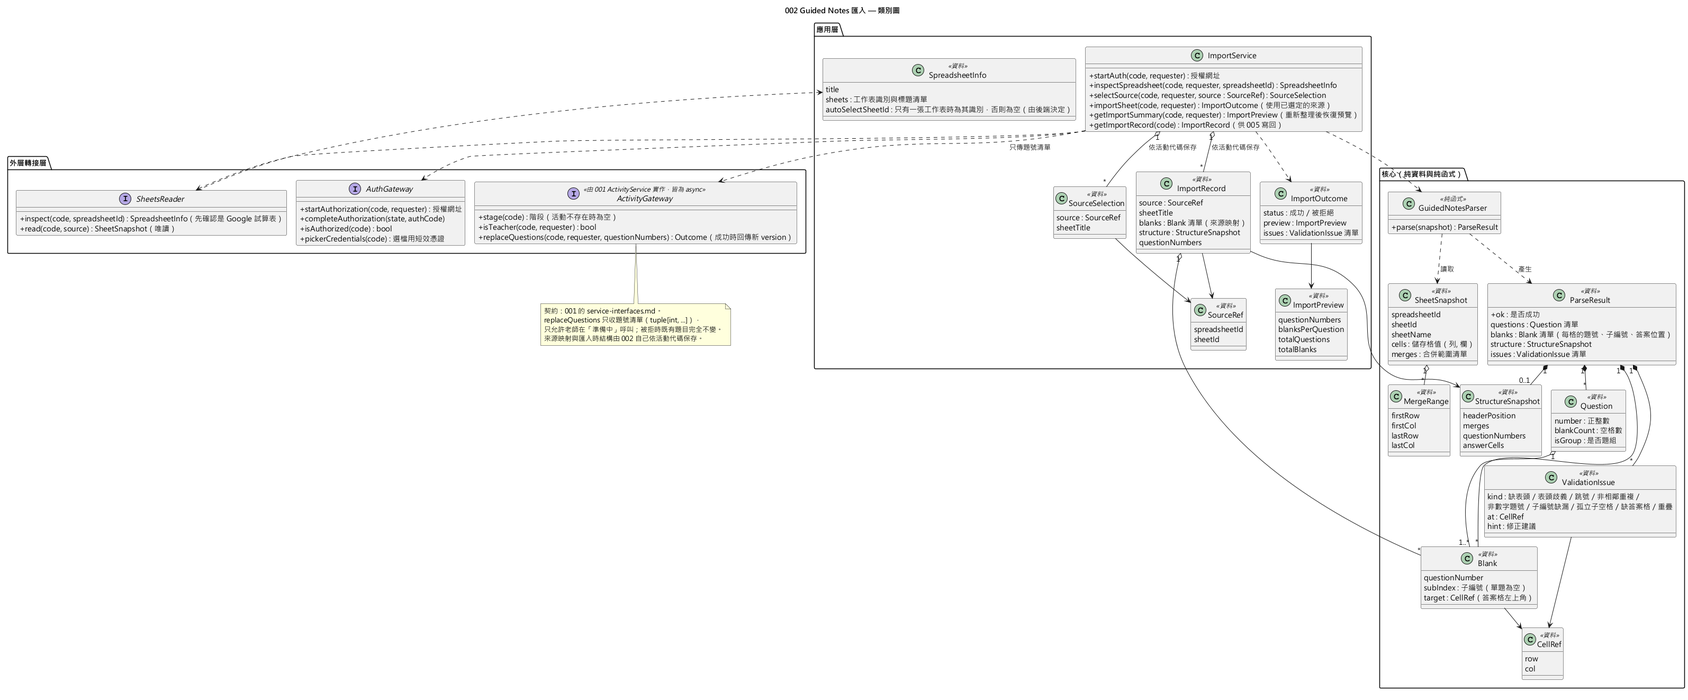
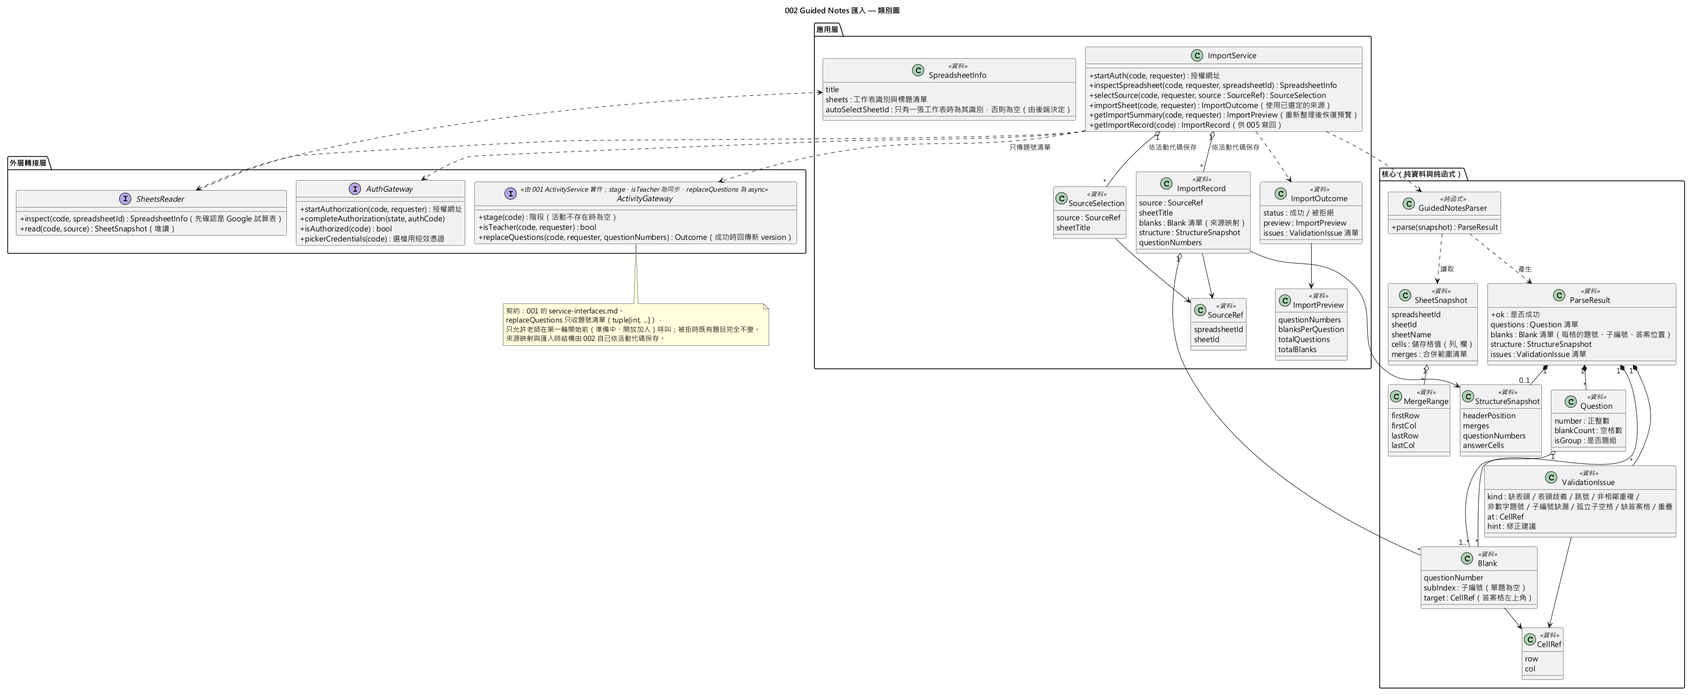
docs: 002 對齊 001 開放加入階段與已合併的 ActivityGateway（stage／is_teacher 同步）(#6)

Changed region(s): [[0.2794, 0.4342, 0.4657, 0.4962], [0.3104, 0.2481, 0.4346, 0.2791]]

diff --git a/specs/002-guided-notes-import/tasks.md b/specs/002-guided-notes-import/tasks.md
@@ -46,7 +46,7 @@ description: "002-guided-notes-import 任務清單"
 
 **Purpose**: 確認骨架就緒，追加相依與目錄
 
-- [ ] T001 **前置關卡（等相依完成再開始）**：確認以下兩項都已完成，在 `main` 或 002 所接續的 001 分支上都可以，**未完成就停止並回報，不開工、不自行建立**：(1) 001 的骨架 PR（目前為 #14）已合併，且 002 分支已從該基底接續；(2) 001 的 `ActivityService` 已實作 002 契約測試與真實驗證會用到的功能：建立活動與老師 token（001 US1）、`replace_questions`（001 tasks T043 對應的實作）、開輪與取消（001 US3、US4，US6 測試需要）。骨架檢查： `pyproject.toml`（含 Ruff、mypy 設定）、`src/lecture_quiz/{core,app,adapters}/`、`src/lecture_quiz/main.py` 的 `create_app`、`tests/conftest.py`、`tests/architecture/test_core_is_pure.py` 都存在。任一項缺少就**停止並回報**，不自行建立（骨架凍結）。
+- [ ] T001 **前置關卡（等相依完成再開始）**：確認以下兩項都已完成，在 `main` 或 002 所接續的 001 分支上都可以，**未完成就停止並回報，不開工、不自行建立**：(1) 001 的骨架 PR（#14，2026-11-23 已合併）已合併，且 002 分支已從該基底接續；(2) 001 的 `ActivityService` 已實作 002 契約測試與真實驗證會用到的功能：建立活動與老師 token（001 US1）、`replace_questions`（001 tasks T043 對應的實作）、開輪與取消（001 US3、US4，US6 測試需要）。骨架檢查： `pyproject.toml`（含 Ruff、mypy 設定）、`src/lecture_quiz/{core,app,adapters}/`、`src/lecture_quiz/main.py` 的 `create_app`、`tests/conftest.py`、`tests/architecture/test_core_is_pure.py` 都存在。任一項缺少就**停止並回報**，不自行建立（骨架凍結）。
 - [ ] T002 [P] 確認 `diagrams/002-guided-notes-import-{component,class,sequence}.puml` 與對應 PNG 都存在，且 PNG 不舊於 `.puml`；不符時先執行 `java -jar plantuml.jar "./diagrams/002-*.puml"`（原則 II）。
 - [ ] T003 在 `pyproject.toml` 相依列表**最後**追加 `google-api-python-client`、`google-auth`、`google-auth-oauthlib`（核心相依，不放選用 extra）；版本以 `pip index versions <套件>` 查證後釘選並記錄在 PR 描述，不憑記憶。註冊 pytest marker `real_google`，並讓預設 `addopts` 排除它：`addopts` 合併為單一表達式 `-m "not perf and not real_google"`（001 已有 `-m 'not perf'`；命令列再給 `-m` 會**覆蓋**它，所以指令一律用 `not real_google and not perf`）。
 - [ ] T004 [P] 建立套件與測試目錄，各放空的 `__init__.py`：`<core>/`、`<app>/`、`src/lecture_quiz/adapters/google/`、`tests/unit/core/guided_notes_import/`、`tests/unit/app/guided_notes_import/`、`tests/unit/adapters/google/`、`tests/contract/guided_notes_import/`、`tests/fixtures/`、`tests/real_google/`。
@@ -78,10 +78,10 @@ description: "002-guided-notes-import 任務清單"
 ### 應用層
 
 - [ ] T010 [P] 在 `<app>/models.py` 建立：`SourceRef(spreadsheet_id, sheet_id)`、`SheetInfo(sheet_id, title)`、`SpreadsheetInfo(spreadsheet_id, title, sheets, auto_select_sheet_id)`、`SourceSelection(source, sheet_title)`、`ImportRecord(source, sheet_title, blanks, structure, question_numbers)`、`ImportPreview(question_numbers, blanks_per_question, total_questions, total_blanks)`、`ImportOutcome(ok, preview, issues, rejection)`、`ImportRejection` 列舉（`NOT_AUTHORIZED`、`AUTH_DENIED`、`AUTH_EXPIRED`、`PERMISSION_DENIED`、`NOT_A_SPREADSHEET`、`SHEET_NOT_FOUND`、`SOURCE_NOT_SELECTED`、`READ_FAILED`、`VALIDATION_FAILED`、`ACTIVITY_NOT_FOUND`、`NOT_TEACHER`、`ROUND_STARTED`、`ACTIVITY_CANCELLED`、`STAGE_NOT_PREPARING`、`GATEWAY_REJECTED`、`GOOGLE_NOT_CONFIGURED`、`INVALID_REQUEST`）、與 001 `Outcome` 同形的 `Result[T]`（`ok`、`value`、`rejection`）。服務不拋業務錯誤。`ACTIVITY_GONE`（410）不是獨立列舉值：它是 `ACTIVITY_NOT_FOUND` 在 HTTP 層、請求帶 token 時依 001 慣例的對外代碼與狀態碼，由 `<web>` 的錯誤轉換決定（見 [contracts/http-api.md](contracts/http-api.md)）。
-- [ ] T011 [P] 在 `<app>/ports.py` 以 `typing.Protocol` 定義 `AuthGateway`（`start_authorization`、`complete_authorization`、`is_authorized`、`picker_credentials`）與 `SheetsReader`（`inspect`、`read`），簽章照 [contracts/service-interfaces.md](contracts/service-interfaces.md)；所有跨出應用層的 I/O 為 `async`。`Clock` 與 `ActivityGateway`（`stage`、`is_teacher`、`replace_questions`）沿用 001，不重複定義。
+- [ ] T011 [P] 在 `<app>/ports.py` 以 `typing.Protocol` 定義 `AuthGateway`（`start_authorization`、`complete_authorization`、`is_authorized`、`picker_credentials`）與 `SheetsReader`（`inspect`、`read`），簽章照 [contracts/service-interfaces.md](contracts/service-interfaces.md)；所有跨出應用層的 I/O 為 `async`（`ActivityGateway` 除外：依已合併的 001 `src/lecture_quiz/app/activity/ports.py`，`stage`、`is_teacher` 是**同步**方法，只有 `replace_questions` 是 `async`；002 的 Fake 與呼叫端照此，不得 `await` 同步方法）。`Clock` 與 `ActivityGateway`（`stage`、`is_teacher`、`replace_questions`）沿用 001，不重複定義。
 - [ ] T012 [P] 在 `<app>/store.py` 建立 `ImportStore`：依活動代碼為 key 的 `sessions`、`selections`、`records`、`locks`（每個活動一把 `asyncio.Lock`，與 001 活動鎖分開）；只在記憶體，不持久化（原則 VII）。
 - [ ] T013 在 `<app>/messages.py` 建立固定中文訊息對照表（每個 `ImportRejection` 一則，`IssueKind` 的修正建議於 T053 補齊），儲存格引用截斷在 40 字元；在 `tests/unit/app/guided_notes_import/test_messages.py` 測試每個代碼都有訊息，且訊息不含 token、授權碼、`state`、client secret、檔案路徑、堆疊字樣（FR-022、SC-005；`Edge: 輸入驗證失敗`）。（依賴 T010）
-- [ ] T014 [P] 建立 `tests/unit/app/guided_notes_import/fakes.py`：`FakeAuthGateway`、`FakeSheetsReader`（可注入快照、授權狀態、各種拒絕）、`FakeActivityGateway`（行為依 001 契約：`stage`、`is_teacher`、`replace_questions` 只允許老師在準備中、成功回傳新 `version`、被拒時題目不變；可注入「解析後、寫入前階段改變」）。檔頭標明為測試替身。
+- [ ] T014 [P] 建立 `tests/unit/app/guided_notes_import/fakes.py`：`FakeAuthGateway`、`FakeSheetsReader`（可注入快照、授權狀態、各種拒絕）、`FakeActivityGateway`（行為依 001 契約：`stage`、`is_teacher`、`replace_questions` 只允許老師在 `PREPARING` 與 `JOINING`（第一輪開始前）、成功回傳新 `version`、被拒時題目不變；可注入「解析後、寫入前階段改變」）。檔頭標明為測試替身。
 - [ ] T015 [P] 在 `<google>/config.py` 讀取五個環境變數，**空字串視為未設定**，缺任何一項時匯入相關操作回 `GOOGLE_NOT_CONFIGURED`，不退回離線路徑、不假裝成功；`config.py` 只讀 `os.environ`，`.env` 由啟動指令載入（`uvicorn ... --env-file .env`，`uvicorn[standard]` 內含 python-dotenv；實作時以已安裝版本的 `uvicorn --help` 確認此選項）；授權範圍常數（`drive.file`）與 `state` 有效期限各只定義在這個檔案。在 `tests/unit/adapters/google/test_config.py` 測試：缺值、空字串、全部齊備三種情況。
 - [ ] T016 擴充 `tests/conftest.py`（只追加）：`make_app` 增加選用參數 `auth_gateway`、`sheets_reader`（預設為 Fake），讓契約測試使用 001 的真實 `ActivityService`、`teacher` fixture 與 `FakeClock`，只替換 Google 相關連接埠。（依賴 T014）
 
@@ -263,7 +263,7 @@ description: "002-guided-notes-import 任務清單"
 
 ### Tests for User Story 6 (REQUIRED — one or more per Acceptance Scenario) ⚠
 
-- [ ] T061 [P] [US6] 在 `tests/unit/app/guided_notes_import/test_lock_after_round.py` 測試：001 階段為搶答中、結果未定案、結果已定案、已結束時，`select_source` 與 `import_sheet` 都回 `ROUND_STARTED`，`ImportRecord` 與既有提交不變（`Scenario: US6-AS1`）；002 不提供任何修改題號、空格數、答案位置的端點（對 `main.py` 路由表掃描），且透過 001 `replace_questions` 的修改被拒、題目定義不變（`Scenario: US6-AS2`）；已取消回 `ACTIVITY_CANCELLED`，其他非準備中階段回 `STAGE_NOT_PREPARING`（`Edge: 活動不在「準備中」`）。
+- [ ] T061 [P] [US6] 在 `tests/unit/app/guided_notes_import/test_lock_after_round.py` 測試：001 階段為搶答中、結果未定案、結果已定案、已結束時，`select_source` 與 `import_sheet` 都回 `ROUND_STARTED`，`ImportRecord` 與既有提交不變（`Scenario: US6-AS1`）；002 不提供任何修改題號、空格數、答案位置的端點（對 `main.py` 路由表掃描），且透過 001 `replace_questions` 的修改被拒、題目定義不變（`Scenario: US6-AS2`）；已取消回 `ACTIVITY_CANCELLED`，`STAGE_NOT_PREPARING` 只保留給無法辨識的階段（防禦用）；**`PREPARING` 與 `JOINING` 兩個階段都允許** `select_source` 與 `import_sheet`，兩者各測一次成功與重新匯入（`Scenario: US5-AS2`；`Edge: 活動不在「準備中」`；alignment 2026-11-23「開放加入」）。
 - [ ] T062 [P] [US6] 在 `tests/contract/guided_notes_import/test_identity_gate.py` 測試每個端點（#1、#3～#8）：非老師、其他活動的老師、不存在的活動代碼都被拒絕且不更動任何題目（`Edge: 非老師的請求`、`Edge: 活動代碼不存在`；FR-025）；活動不存在時依 001 慣例，無 token 回 404 `ACTIVITY_NOT_FOUND`、帶 token 回 410 `ACTIVITY_GONE`；解析成功但 001 因階段剛好改變而拒絕 → `GATEWAY_REJECTED`、001 題目與 002 保存的資料都不變。
 
 ### Implementation for User Story 6
@@ -274,7 +274,7 @@ description: "002-guided-notes-import 任務清單"
 
 **前端**
 
-- [ ] T064 [US6] 在 `<static>/js/import.js` 依 001 的活動快照在階段不是準備中時停用匯入區塊，並顯示「搶答已開始，題目不可更動」（已取消時顯示「活動已取消」）。
+- [ ] T064 [US6] 在 `<static>/js/import.js` 依 001 的活動快照在階段不是「準備中」或「開放加入」時停用匯入區塊，並顯示「搶答已開始，題目不可更動」（已取消時顯示「活動已取消」）。
 
 **Checkpoint**: 所有 User Story 完成
 

diff --git a/specs/002-guided-notes-import/spec.md b/specs/002-guided-notes-import/spec.md
@@ -34,7 +34,7 @@
 **OpenSpec 尚未確認而影響本 spec 的問題（alignment.md）**：無。
 
 - 學習單格式固定：2026-11-21 OpenSpec 組表示學習單範例格式固定、助教測試不會用例外情況（口頭轉述，已有共識）。SpecKit 組據此取消先前提議的「結構輔助定位」「表頭同義詞」「子編號位置不固定」（原內容已封存，見 alignment.md 2026-11-21 取代紀錄），改採 OpenSpec 原文字面解讀；空白列處理維持「忽略」，這與 OpenSpec「間隔列」Scenario 一致，不是新增行為。
-- 其餘解析與選檔細節（單一工作表自動選用、兩個表頭區塊視為歧義、作答格佔位文字、題號格式等）屬本組實作決定，不需與 OpenSpec 組討論，見 Edge Cases 與 Assumptions。
+- 其餘解析與選檔細節（單一工作表自動選用、兩個表頭區塊視為歧義、作答格佔位文字、題號格式等）屬本組實作決定，不需與 OpenSpec 組討論（其中單一工作表自動選用已於 2026-11-23 經 OpenSpec 組確認為 C10），見 Edge Cases 與 Assumptions。
 
 ## Diagrams *(mandatory — 憲章原則 II)*
 
@@ -49,6 +49,8 @@
 ## Clarifications
 
 ### Session 2026-11-23
+
+- 階段用語（alignment.md 2026-11-23「001 開放加入階段」，兩組已同意）：001 把「準備中」拆成「準備中」與「開放加入」。本 spec 中的「**準備中**」一律指 **第一輪開始前的兩個階段：001 的 PREPARING（準備中）與 JOINING（開放加入）**；兩者都可以匯入與重新匯入。「第一輪開始後」仍指 ROUND_OPEN、RESULT_PENDING、RESULT_FINAL、ENDED；CANCELLED 另外處理。
 
 - Q: 試算表有隱藏的工作表時，要不要列入選擇清單、計入「只有一張」的判斷？ → A: 隱藏的工作表不列入清單、也不計入張數；沒有任何可見工作表時回報「沒有可選的工作表」，不更動題目。
 
@@ -176,7 +178,7 @@
 - **同一個題號分在不相鄰的位置**：視為非相鄰重複題號，整份拒絕。
 - **非老師的請求**：不是老師身分的人（含學生、其他活動的老師）嘗試匯入或更換來源 → 拒絕且不更動任何題目（老師身分由 001 提供）。
 - **活動代碼不存在**：001 回報活動不存在 → 拒絕並說明找不到該活動，不更動任何題目。
-- **活動不在「準備中」**：除第一輪開始後的明確拒絕外，其他非準備中階段（已結束、已取消）同樣不接受匯入，訊息說明目前階段不可匯入。「第一輪開始後」指 001 的搶答中、結果未定案、結果已定案與已結束；已取消另外處理，因為活動從未開輪，訊息應說明活動已取消，而不是「搶答已開始」。
+- **活動不在「準備中」**：（「準備中」含 001 的準備中與開放加入）除第一輪開始後的明確拒絕外，其他不可匯入的階段（已取消，以及無法辨識的階段）同樣不接受匯入，訊息說明目前階段不可匯入。「第一輪開始後」指 001 的搶答中、結果未定案、結果已定案與已結束；已取消另外處理，因為活動從未開輪，訊息應說明活動已取消，而不是「搶答已開始」。
 - **解析後、寫入前階段或身分改變**：解析成功但 001 在接受題號清單時拒絕（例如老師剛好在這段時間開輪或取消活動）→ 整份拒絕；001 的題目不變，002 保存的來源映射與匯入時結構也不變（先由 001 接受，002 才保存）。
 - **讀取期間老師編輯試算表**：匯入以「一次讀取到的內容」為準；匯入後老師再改試算表，不會自動改變已匯入的題目，需重新匯入（準備中）才會更新。
 - **連續快速重複匯入**：重複的匯入請求不得產生重複或交錯的題目；最後成功完成的一次整份取代前一次。
@@ -211,7 +213,7 @@
 - **FR-022**: 錯誤訊息 MUST 讓老師知道如何修正，且 MUST NOT 暴露憑證、授權碼、token、堆疊追蹤、檔案路徑或其他內部細節；訊息中引用的試算表文字 MUST 當成純文字顯示。
 - **FR-023**: 匯入過程 MUST NOT 修改老師試算表的任何內容（匯入只讀取）。
 - **FR-024**: 系統 MUST 依活動代碼保存（多個活動同時存在時互不影響）每個空格的來源映射（它屬於哪一題、哪個子編號、位於試算表與工作表的哪一列哪一欄）與匯入時的結構，供寫回前比對（005 使用；涵蓋項目依 OpenSpec result-export「來源結構一致性檢查」所列：試算表與工作表身分、表頭位置、題號、子空格、相關合併範圍及答案格映射）。
-- **FR-025**: 只有該活動的老師身分可以匯入或重新匯入，且僅限活動處於準備中；其他身分、其他活動的老師、不存在的活動代碼或其他階段（含已取消）的請求 MUST 被拒絕且不更動任何題目。
+- **FR-025**: 只有該活動的老師身分可以匯入或重新匯入，且僅限活動處於準備中（含 001 的「準備中」與「開放加入」）；其他身分、其他活動的老師、不存在的活動代碼或其他階段（含已取消）的請求 MUST 被拒絕且不更動任何題目。
 - **FR-026**: 沒有子編號也沒有作答格的列 MUST 一律忽略（不視為子列、不視為錯誤、不影響連續性判定），包括位於題號縱向合併範圍內或相鄰重複題號之間者。
 - **FR-027**: 匯入成功時，系統 MUST 先將題號清單交給 001 接受，001 接受後才保存來源映射與匯入時結構；001 拒絕時 MUST 整份拒絕，001 的題目與 002 已保存的來源映射、匯入時結構 MUST 完全不變。001 只取得題號清單，不取得來源映射或匯入時結構。
 
@@ -242,10 +244,10 @@
 ## Assumptions
 
 - 老師已有 Google 帳號，可存取要匯入的試算表；使用者在本機瀏覽器操作，網路連線正常。
-- 老師身分與活動階段由 001-activity-session 提供，介面依 001 的 `contracts/service-interfaces.md`（2026-11-21 與 jacky0407 於 Issue #6 對齊，屬 SpecKit 組內部介面，不列入 alignment.md）：`stage(code)`、`is_teacher(code, requester)`、`replace_questions(code, requester, question_numbers)`，每個方法都帶活動代碼，因為後端可同時存在多個活動；`replace_questions` 只收題號清單，只允許老師在準備中呼叫，被拒時既有題目不變。來源映射與匯入時結構由本子功能自己保存，005 寫回時向本子功能取得。「第一輪開始後」對應 001 的搶答中、結果未定案、結果已定案與已結束；已取消也不可匯入。
+- 老師身分與活動階段由 001-activity-session 提供，介面依 001 的 `contracts/service-interfaces.md`（2026-11-21 與 jacky0407 於 Issue #6 對齊，屬 SpecKit 組內部介面，不列入 alignment.md）：`stage(code)`、`is_teacher(code, requester)`、`replace_questions(code, requester, question_numbers)`，每個方法都帶活動代碼，因為後端可同時存在多個活動；`replace_questions` 只收題號清單，只允許老師在第一輪開始前（001 的 PREPARING 與 JOINING）呼叫，被拒時既有題目不變。本 spec 的「準備中」即指這兩個階段（見 Clarifications）。來源映射與匯入時結構由本子功能自己保存，005 寫回時向本子功能取得。「第一輪開始後」對應 001 的搶答中、結果未定案、結果已定案與已結束；已取消也不可匯入。
 - 「檔案選取介面」採使用者指定的 Google 提供的選檔介面（Google Picker），不提供貼上網址或試算表 ID 的入口；這屬實作與設計方式，不列入 alignment.md。授權範圍（scope）的具體設定屬技術決定，留給 plan；plan 須確保授權範圍足以支援 005 寫回該份試算表。
 - 學習單格式固定：OpenSpec 組表示範例格式固定、助教測試不會用例外情況（2026-11-21 口頭轉述，已有共識，見 alignment.md）。因此本版只支援 OpenSpec 規格描述的版面（「題號」「作答」文字表頭；「（n）」／「(n)」子編號位於作答表頭涵蓋的欄範圍內，作答格在其右側緊鄰），不做結構輔助定位。曾提議的結構輔助定位已封存於本機 `archive/002-structure-assist-proposal.md`（不入版控）。課程說明允許修改範本，若日後發現助教用的版面不符，需重新討論並走 alignment.md。
-- 下列為本組實作決定，不需與 OpenSpec 組討論：單一工作表自動選用（OpenSpec 原文寫「再明確選擇其中一張工作表」，此處視為實作細節）；出現兩個符合條件的表頭區塊即視為歧義；作答格內有無佔位文字都視為作答格；題號只接受正整數及其等值的數值或純數字文字。匯入時結構涵蓋的項目依 FR-024，以 OpenSpec result-export 所列為準。
+- 下列為本組實作決定，不需與 OpenSpec 組討論：單一工作表自動選用（OpenSpec 原文寫「再明確選擇其中一張工作表」；2026-11-23 OpenSpec 組已確認 C10 同意，記於 alignment.md）；出現兩個符合條件的表頭區塊即視為歧義；作答格內有無佔位文字都視為作答格；題號只接受正整數及其等值的數值或純數字文字。匯入時結構涵蓋的項目依 FR-024，以 OpenSpec result-export 所列為準。
 - 把定案答案寫回學習單（含以文字值寫入、不當作公式執行、寫回前重新驗證來源結構）屬於 005-result-export；本子功能只保證保存足以支援寫回的來源映射與匯入時結構。
 - 題數約在 50 題以內、單張工作表約數百列，屬一般課堂學習單的規模；更大規模不在本版範圍。
 - 活動資料只存在後端記憶體，重啟即清空（憲章原則 VII），因此匯入結果與來源映射也隨之清空，不另做持久化。

diff --git a/specs/002-guided-notes-import/plan.md b/specs/002-guided-notes-import/plan.md
@@ -14,7 +14,7 @@
 
 ## Summary
 
-老師在活動準備中，用 Google 帳號授權、以 Google Picker 選一份 Google 試算表與一張工作表，系統唯讀取回工作表，**依「題號」「作答」文字表頭與合併範圍動態定位**，辨識單題與題組（題號縱向合併或相鄰重複），算出每題的精確答案格，整份驗證通過才交給 001 取代題目，並保存來源映射與匯入時結構供 005 寫回。
+老師在活動準備中（001 的準備中或開放加入，第一輪開始前），用 Google 帳號授權、以 Google Picker 選一份 Google 試算表與一張工作表，系統唯讀取回工作表，**依「題號」「作答」文字表頭與合併範圍動態定位**，辨識單題與題組（題號縱向合併或相鄰重複），算出每題的精確答案格，整份驗證通過才交給 001 取代題目，並保存來源映射與匯入時結構供 005 寫回。
 
 技術做法：
 
@@ -87,7 +87,8 @@
 ## 相依與時程
 
 - **相依 001**：`ActivityGateway`（`stage`、`is_teacher`、`replace_questions`）契約已對齊（Issue #6）。001 尚在 `feature/5-001-activity-session` 分支，未合併。
-- **骨架 PR 凍結**（jacky0407 於 Issue #5 約定，2026-11-21 留言）：骨架 PR 計畫命名為 `chore/5-project-skeleton`，但**截至 2026-11-22 遠端沒有這個分支，也沒有對應 PR**（001 分支也還沒有 `pyproject.toml`、`src/`），實際分支名稱與時間以 jacky0407 為準。骨架 PR 合併前，002 **不得**建立 `pyproject.toml`、`main.py`、`src/`；合併後從 main 接續。因此本 plan 只產出文件，不產生程式碼。**2026-11-22 更新**：骨架 PR 已開為 #14（尚未合併），001 的 PR 為草稿 #15。決定**等相依完成再開始實作**：`/speckit-implement` 前要確認骨架 PR 已合併，且 001 的活動建立、老師 token、`replace_questions`、開輪與取消已完成（在 main 或 001 分支皆可）；骨架 PR 只涵蓋 001 的 T001～T022，不含這些功能（tasks T001）。
+- **2026-11-23 現況**：骨架 PR #14 與 001 的 PR #15 都已合併到 `main`，001 已含 `ActivityGateway`（`src/lecture_quiz/app/activity/ports.py`：`stage`、`is_teacher` 為同步，`replace_questions` 為 async）與新增的「開放加入」階段（`PREPARING`、`JOINING` 都可匯入）。002 已合併 `origin/main`。下一段是 2026-11-22 當時的歷史紀錄。
+- **（歷史，2026-11-22）骨架 PR 凍結**（jacky0407 於 Issue #5 約定，2026-11-21 留言）：骨架 PR 計畫命名為 `chore/5-project-skeleton`，但**截至 2026-11-22 遠端沒有這個分支，也沒有對應 PR**（001 分支也還沒有 `pyproject.toml`、`src/`），實際分支名稱與時間以 jacky0407 為準。骨架 PR 合併前，002 **不得**建立 `pyproject.toml`、`main.py`、`src/`；合併後從 main 接續。因此本 plan 只產出文件，不產生程式碼。**2026-11-22 更新**：骨架 PR 已開為 #14（尚未合併），001 的 PR 為草稿 #15。決定**等相依完成再開始實作**：`/speckit-implement` 前要確認骨架 PR 已合併，且 001 的活動建立、老師 token、`replace_questions`、開輪與取消已完成（在 main 或 001 分支皆可）；骨架 PR 只涵蓋 001 的 T001～T022，不含這些功能（tasks T001）。
 - **共用檔案約定**：`main.py` 只加一行 router；`teacher.html` 只加一個區塊；`pyproject.toml` 相依追加在最後；`docs/alignment.md` 只追加在最後。
 - **001 的開發用 seed API**（`LECTURE_QUIZ_DEV_SEED=1`）：001 的 plan 規定「002 合併後的第一個 PR 移除」。tasks 要包含確認或移除這個 API 的任務（與 jacky0407 協調，因為檔案屬 001）。
 - **後續**：005 依 `ImportRecord` 與同一個 `AuthGateway`／`SheetsReader` 寫回。

diff --git a/specs/002-guided-notes-import/contracts/service-interfaces.md b/specs/002-guided-notes-import/contracts/service-interfaces.md
@@ -8,9 +8,9 @@
 
 | 方法 | 002 的用法 |
 |---|---|
-| `stage(code) -> Stage \| None` | 入口處判斷是否在準備中；活動不存在時為空；用來回 `ROUND_STARTED`／`ACTIVITY_CANCELLED`／`STAGE_NOT_PREPARING` |
-| `is_teacher(code, requester) -> bool` | 非老師一律拒絕 |
-| `replace_questions(code, requester, question_numbers: tuple[int, ...]) -> Outcome[int]` | 解析成功後呼叫；**只傳題號清單**；成功回傳新 `version`；被拒時 001 的題目完全不變 |
+| `stage(code) -> Stage \| None`（**同步**，依已合併的 001 `ports.py`） | 入口處判斷是否在第一輪開始前（`PREPARING` 或 `JOINING` 才允許）；活動不存在時為空；用來回 `ROUND_STARTED`／`ACTIVITY_CANCELLED`／`STAGE_NOT_PREPARING` |
+| `is_teacher(code, requester) -> bool`（**同步**） | 非老師一律拒絕 |
+| `replace_questions(code, requester, question_numbers: tuple[int, ...]) -> Outcome[int]`（**async**） | 解析成功後呼叫；**只傳題號清單**；成功回傳新 `version`；被拒時 001 的題目完全不變 |
 
 ## 002 定義的連接埠（由外層轉接層實作）
 
@@ -46,7 +46,7 @@
 | 讀取與寫入 Google | 005 透過同一個 `AuthGateway`／`SheetsReader` 取得授權（授權範圍 `drive.file` 已涵蓋寫入，⚠ 待真實驗證）；寫入方法由 005 自己的連接埠定義，**002 不提供任何寫入** |
 
 - 005 只能讀 `ImportRecord`；不得修改它。
-- 重新匯入只會發生在準備中；寫回發生在搶答結束後，所以 `ImportRecord` 在寫回期間不會變動。
+- 重新匯入只會發生在第一輪開始前（001 的準備中與開放加入）；寫回發生在搶答結束後，所以 `ImportRecord` 在寫回期間不會變動。
 
 ## 純函式邊界（給架構測試）
 

diff --git a/specs/002-guided-notes-import/research.md b/specs/002-guided-notes-import/research.md
@@ -154,7 +154,7 @@
 **決定**：
 
 - **順序（FR-027）**：匯入服務依下列順序執行，且整段持有**該活動的匯入鎖**：
-  1. 向 001 取得 `stage(code)` 與 `is_teacher(code, requester)`；不在準備中或非老師就拒絕。
+  1. 向 001 取得 `stage(code)` 與 `is_teacher(code, requester)`；只有 `PREPARING` 與 `JOINING`（第一輪開始前，alignment 2026-11-23「開放加入」）允許；`CANCELLED` → `ACTIVITY_CANCELLED`；`ROUND_OPEN`／`RESULT_PENDING`／`RESULT_FINAL`／`ENDED` → `ROUND_STARTED`；非老師就拒絕。
   2. 讀取 Sheets（唯讀）→ 解析。任何失敗就回傳，**什麼都不寫**。
   3. 呼叫 001 的 `replace_questions(code, requester, 題號清單)`。被拒絕就整份拒絕，002 保存的資料也不變。
   4. 001 接受後，才以新的 `ImportRecord` **整份取代**舊的（來源映射與匯入時結構）。

diff --git a/specs/002-guided-notes-import/quickstart.md b/specs/002-guided-notes-import/quickstart.md
@@ -6,7 +6,7 @@
 
 ## 前置條件
 
-1. 001 的骨架 PR（#14，截至 2026-11-22 尚未合併）已合併，且 001 的活動建立、老師 token、`replace_questions`、開輪與取消已完成（在 main 或 002 接續的 001 分支上皆可）；002 分支已從該基底接續（見 [plan.md](plan.md)「相依與時程」）。
+1. 001 的骨架 PR（#14）與 001 本體（#15）已於 2026-11-23 合併到 main；且 001 的活動建立、老師 token、`replace_questions`、開輪與取消已完成（在 main 或 002 接續的 001 分支上皆可）；002 分支已從該基底接續（見 [plan.md](plan.md)「相依與時程」）。
 2. Python 3.11 以上，已依 `pyproject.toml` 安裝相依（含開發相依）。
 3. **Google Cloud 一次性設定**（只有真實路徑驗證需要，自動化測試不需要；約 10～15 分鐘）。
 

diff --git a/specs/002-guided-notes-import/data-model.md b/specs/002-guided-notes-import/data-model.md
@@ -65,7 +65,7 @@
 （無來源） --PUT source--> 已選來源 --import 成功--> 已匯入（ImportRecord）
      ^                        |                         |
      |                        +--import 失敗：維持原狀--+
-     +-- 準備中才可重選／重新匯入；整份取代；第一輪開始後（001 階段 ≠ 準備中）全部拒絕
+     +-- 第一輪開始前（001 的 PREPARING、JOINING）才可重選／重新匯入；整份取代；第一輪開始後全部拒絕
 ```
 
 - 「第一輪開始後」不由 002 維護，由 001 的 `stage(code)` 決定（research R6）。
